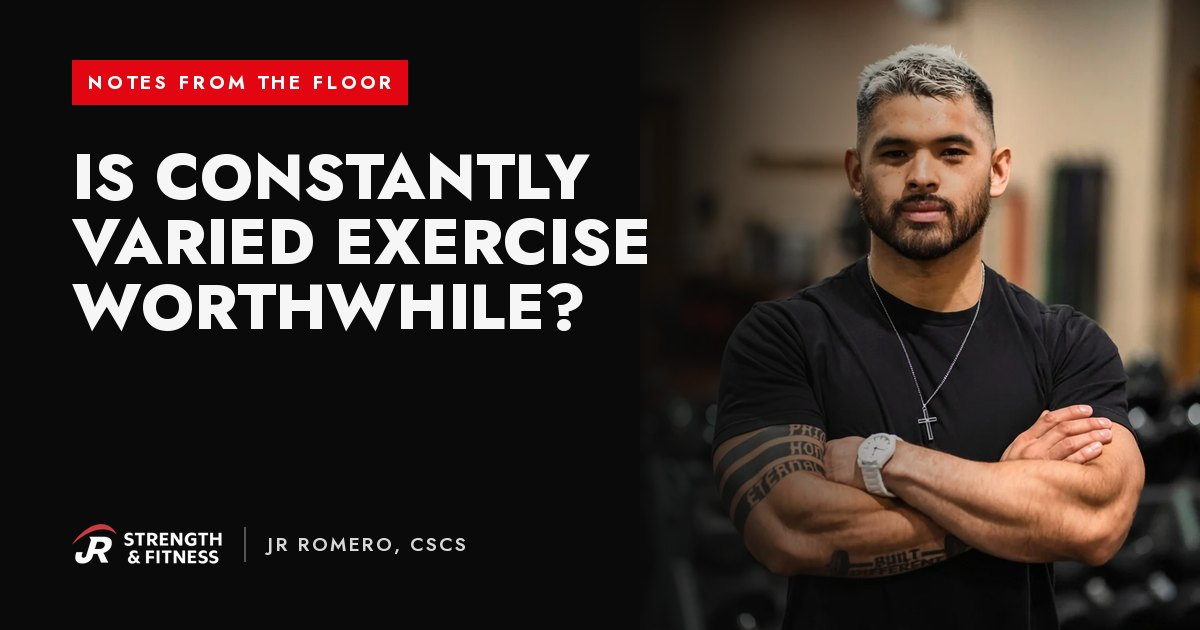
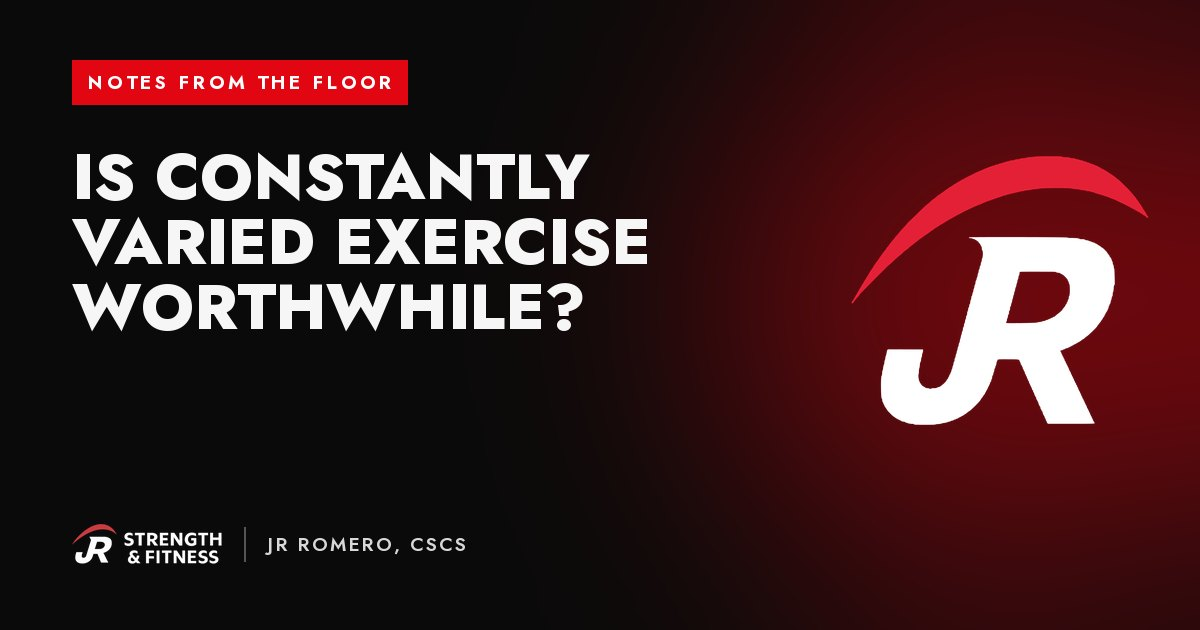
Share cards: articles without a photo use the JR mark instead of JR's portrait
Claude-Session: https://claude.ai/code/session_016qbwqmCt8rb4EzZKsgcXT2

diff --git a/src/sharecard.py b/src/sharecard.py
@@ -2,7 +2,8 @@
 
 Design C (chosen Oct 2026): black ground, red "Notes from the Floor" tag, the headline in Jost 800
 uppercase, logo and byline at the bottom, and a photo on the right that fades into the black.
-The photo is the article's own `image` when it has one, otherwise JR's portrait.
+The photo is the article's own `image` when it has one; otherwise the full-colour JR mark on a red glow.
+Site pages (PAGE_CARDS) keep JR's portrait.
 
 Cards are written to public/assets/share/<slug>.jpg on every build. Pillow's output is
 deterministic, so unchanged articles produce byte-identical files and no git diff.
@@ -207,10 +208,12 @@ def build_all(posts, pages=()):
         render(headline, tag=tag).save(os.path.join(OUT_DIR, name + ".jpg"), "JPEG", quality=86, optimize=True)
         keep.add(name + ".jpg")
     for p in posts:
-        photo = os.path.join(PUBLIC, p["image"].lstrip("/")) if p.get("image") else None
-        focus = (0.5, 0.4) if photo else (0.5, 0.16)
         name = p["slug"] + ".jpg"
-        render(p["title"], photo, focus).save(os.path.join(OUT_DIR, name), "JPEG", quality=86, optimize=True)
+        if p.get("image"):
+            card = render(p["title"], os.path.join(PUBLIC, p["image"].lstrip("/")), (0.5, 0.4))
+        else:  # no article photo yet: the JR mark (JR picked this over his portrait, Oct 29 2026)
+            card = render(p["title"], art="mark")
+        card.save(os.path.join(OUT_DIR, name), "JPEG", quality=86, optimize=True)
         keep.add(name)
     for f in os.listdir(OUT_DIR):  # drop cards for deleted articles
         if f.endswith(".jpg") and f not in keep:
